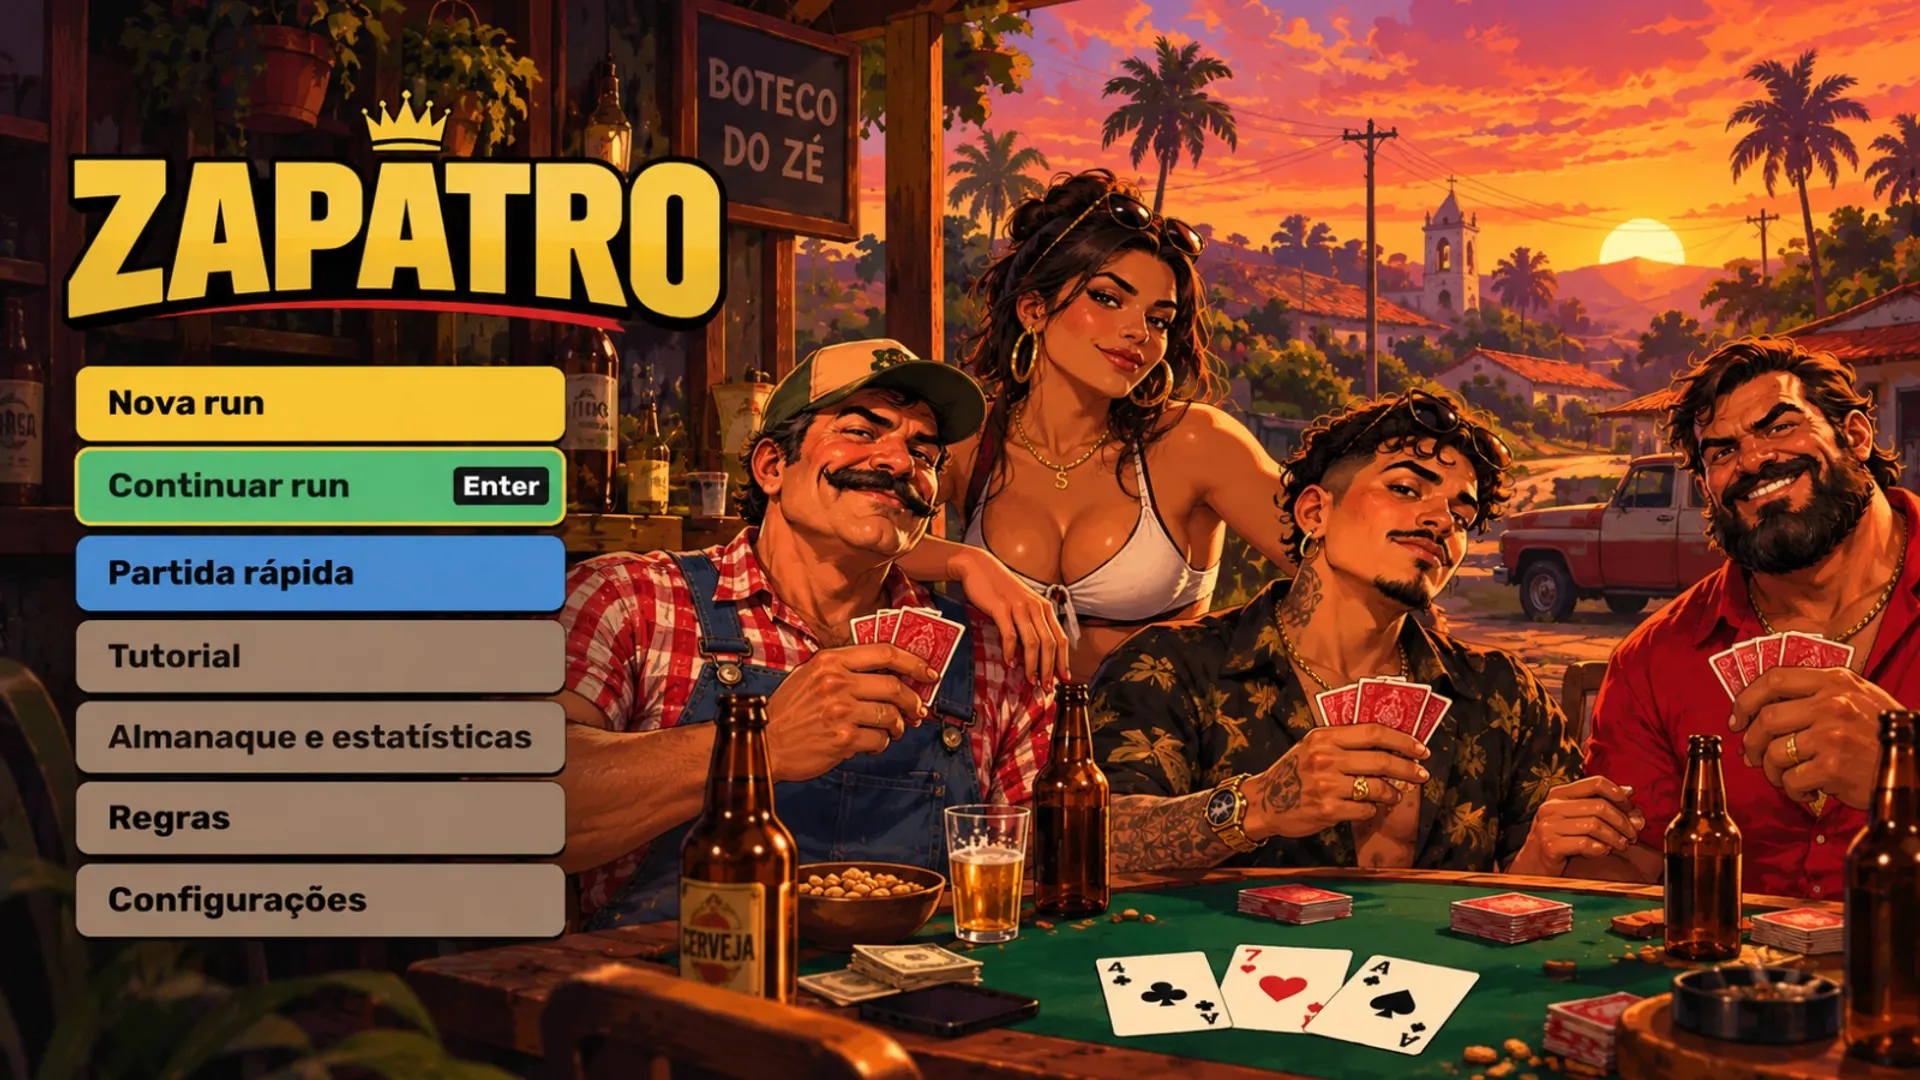
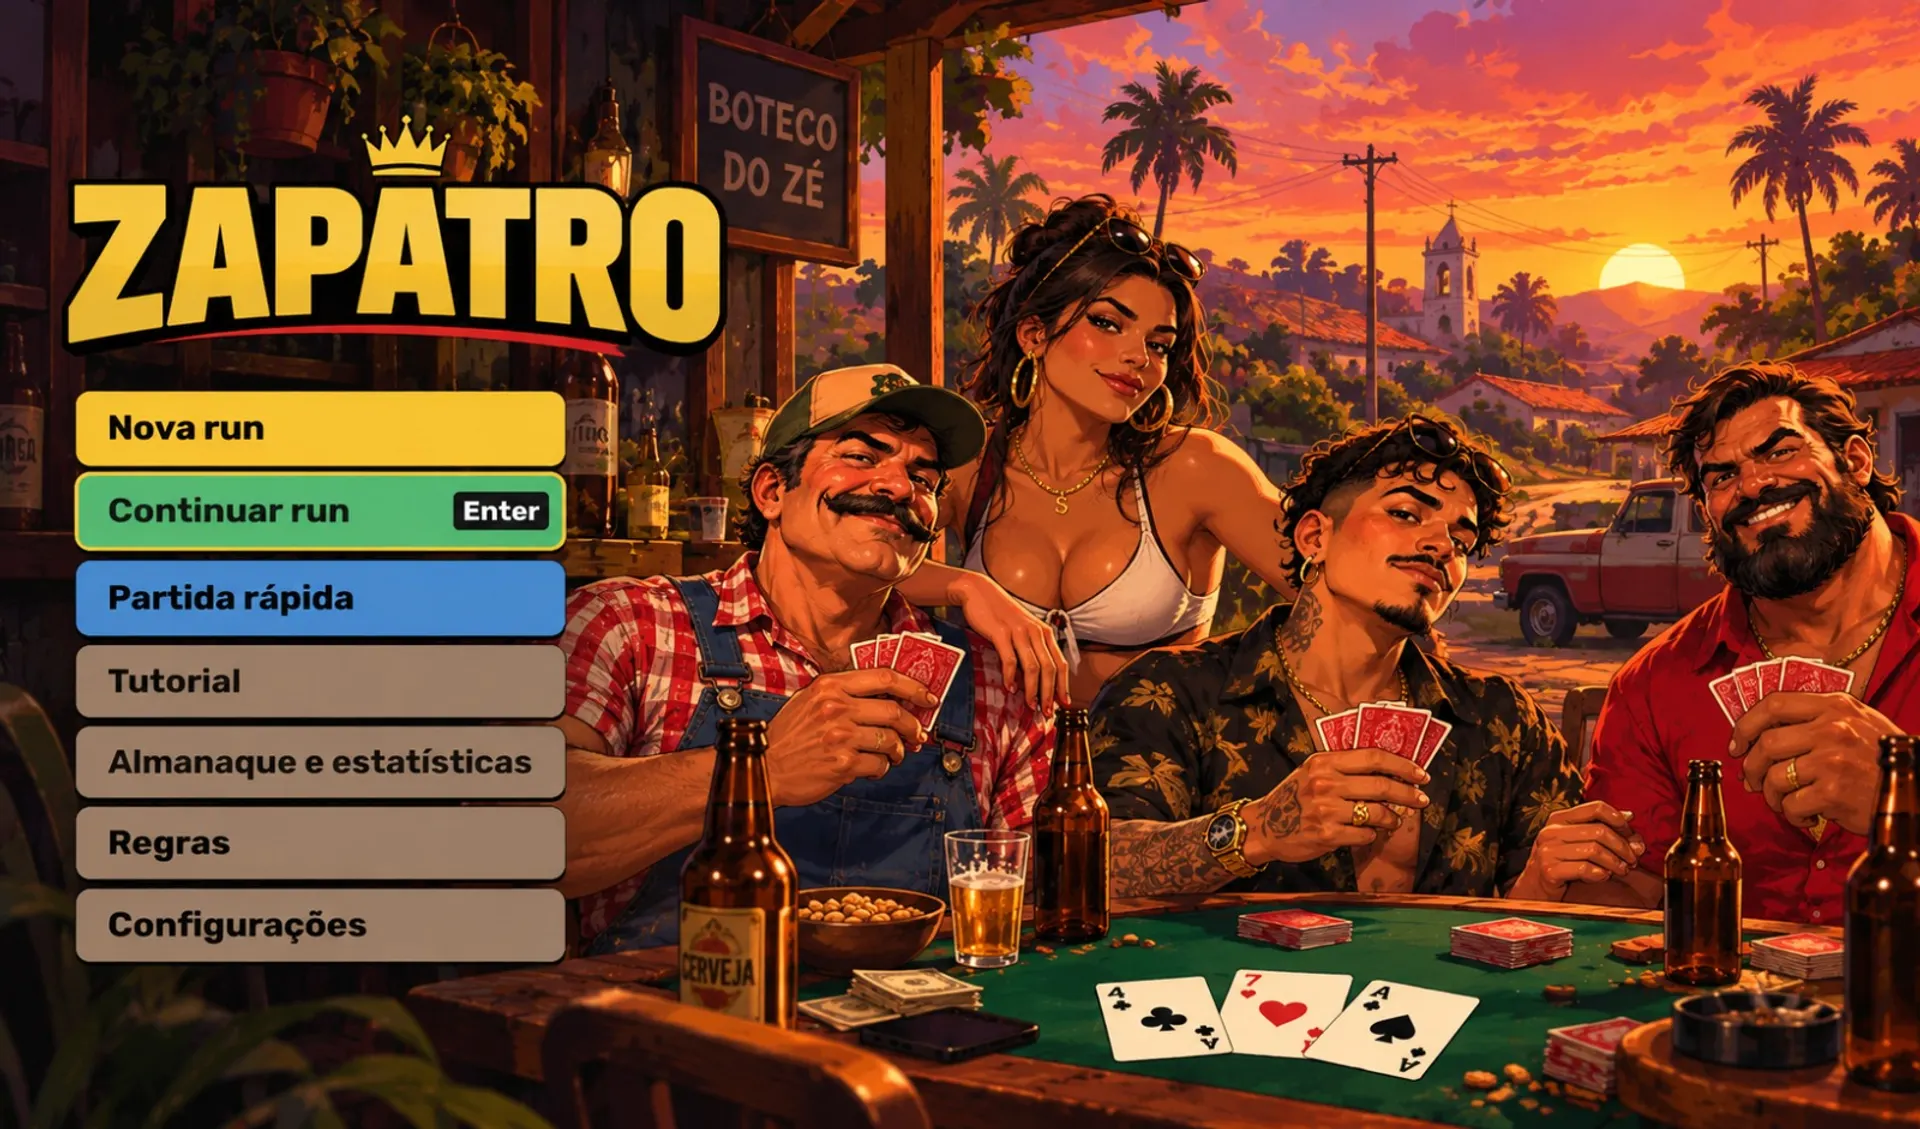
fix(ui): menu like the concept art: full painting, real buttons over the painted ones, no panel

diff --git a/src/view/menu-backdrop.ts b/src/view/menu-backdrop.ts
@@ -3,87 +3,125 @@ import { PALETTE } from '../config/palette';
 import { comfort } from './comfort';
 
 const KEYS = ['img.bg.menu-1', 'img.bg.menu-2', 'img.bg.menu-3'] as const;
-/** Time each painting stays, the crossfade between two, and the slow zoom (Ken Burns) of one. */
+/** Time each painting stays and the crossfade between two. */
 const HOLD_MS = 7000;
-const FADE_MS = 900;
-const ZOOM = 0.06;
-/** The paintings carry the logo and PT buttons in their left third: this share of the width is hidden. */
-const BAKED_UI = 0.31;
-/** The panel is at least as wide as the button column and the title (stage px). */
-export const MENU_PANEL_MIN = 272;
-const IMG_W = 1600;
-const IMG_H = 900;
+const FADE_MS = 500;
+/** The paintings are measured on this width (their source files are 1600 px wide). */
+const SRC_W = 1600;
+/** The painted logo ends at this source x in every painting: the view keeps at least this much. */
+const LOGO_RIGHT = 620;
+/** Most the painting may be enlarged (cropping its bottom) to fill the view's width. */
+const MAX_FILL = 1.06;
 
 /**
- * Rotating painted backdrop of the main menu: crossfade every HOLD_MS, left/right or the dots to
- * change by hand. A dark panel with a soft edge hides the logo and buttons painted into the art, so
- * the game's own (translated) ones sit on it. Absent images (failed load) leave the scene as is.
+ * Where the logo and the button column are painted into each painting (source px), measured on
+ * references/concept-art-gta/menu-1..3.jpeg. The game's own logo and buttons are laid over them,
+ * same place and size, so no painted text shows under them (whatever the language).
+ */
+export interface MenuGeo {
+	logo: { x: number; y: number; w: number; h: number };
+	col: { x: number; w: number; h: number; y0: number; step: number };
+}
+export const MENU_GEO: readonly MenuGeo[] = [
+	{ logo: { x: 48, y: 52, w: 564, h: 206 }, col: { x: 57, w: 415, h: 62, y0: 290, step: 71.7 } },
+	{ logo: { x: 50, y: 92, w: 560, h: 206 }, col: { x: 63, w: 407, h: 61, y0: 326, step: 69 } },
+	{ logo: { x: 48, y: 82, w: 546, h: 198 }, col: { x: 58, w: 403, h: 60, y0: 312, step: 68 } },
+];
+
+/** What the scene needs to place its UI: the painting's top-left in stage px and its scale. */
+export interface MenuFrame {
+	geo: MenuGeo;
+	/** Stage px per source px. */
+	k: number;
+	x: number;
+	y: number;
+	/** The visible stage rectangle. */
+	view: { x: number; y: number; width: number; height: number };
+}
+
+/**
+ * Rotating painted backdrop of the main menu (like the concept art: full-screen painting, logo
+ * and buttons over it). The painting fits the view's height and sits at the top left, so the
+ * painted UI is always on screen; wider views show the dimmed main backdrop to its right. It
+ * changes every HOLD_MS with a crossfade, or by hand with left/right and the dots. `onFrame` fires
+ * when the layout or the slide changes, so the scene can rebuild its logo and buttons on the new
+ * geometry. Missing images (failed load) leave the scene as is.
  */
 export class MenuBackdrop {
 	private readonly images: Phaser.GameObjects.Image[];
-	private readonly panel: Phaser.GameObjects.Graphics;
+	private readonly edge: Phaser.GameObjects.Graphics;
 	private readonly dots: Phaser.GameObjects.Arc[] = [];
 	private current = 0;
-	private cover = 1;
-	/** Current push-in of each painting (0..ZOOM), so a window resize keeps it. */
-	private readonly zoomed: number[] = [];
+	private view = { x: 0, y: 0, width: 640, height: 360 };
 	private timer: Phaser.Time.TimerEvent | null = null;
 
 	constructor(
 		private readonly scene: Phaser.Scene,
-		dotsAt: { x: number; y: number },
+		private readonly onFrame: (f: MenuFrame) => void,
 	) {
 		const keys = KEYS.filter((k) => scene.textures.exists(k));
-		this.images = keys.map((k) => scene.add.image(0, 0, k).setDepth(-20).setAlpha(0));
-		this.panel = scene.add.graphics().setDepth(-19);
-		if (!this.images.length) return;
+		this.images = keys.map((k) =>
+			scene.add.image(0, 0, k).setOrigin(0, 0).setDepth(-20).setAlpha(0),
+		);
+		this.edge = scene.add.graphics().setDepth(-19);
 		this.images[0]?.setAlpha(1);
-		this.zoom(0);
 		this.images.forEach((_, i) => {
 			const dot = scene.add
-				.circle(
-					dotsAt.x + (i - (this.images.length - 1) / 2) * 12,
-					dotsAt.y,
-					3.5,
-					PALETTE.textLight,
-				)
+				.circle(0, 0, 3.5, PALETTE.textLight)
+				.setStrokeStyle(1, PALETTE.night, 0.8)
 				.setDepth(5)
 				.setInteractive({ useHandCursor: true });
 			dot.on('pointerdown', () => this.go(i));
 			this.dots.push(dot);
 		});
 		this.paintDots();
-		this.restart();
+		if (this.images.length > 1) this.restart();
 		scene.events.once('shutdown', () => this.timer?.remove());
 	}
 
-	/** Fits the paintings to the visible stage rectangle (any window aspect ratio). */
+	/** Fits the painting to the visible stage rectangle and tells the scene where its UI goes. */
 	layout(view: { x: number; y: number; width: number; height: number }): void {
-		this.cover = Math.max(view.width / IMG_W, view.height / IMG_H);
-		const cx = view.x + view.width / 2;
-		const cy = view.y + view.height / 2;
-		for (const img of this.images) img.setPosition(cx, cy);
-		const left = cx - (IMG_W * this.cover) / 2;
-		// The buttons live at fixed stage positions, so the panel is at least as wide as their column.
-		const edge = Math.max(left + IMG_W * this.cover * BAKED_UI + 24, MENU_PANEL_MIN);
-		const g = this.panel.clear();
-		g.fillStyle(PALETTE.night, 1).fillRect(
-			view.x - 40,
-			view.y - 40,
-			edge - view.x + 40,
-			view.height + 80,
-		);
-		g.fillGradientStyle(
-			PALETTE.night,
-			PALETTE.night,
-			PALETTE.night,
-			PALETTE.night,
-			1,
-			0,
-			1,
-			0,
-		).fillRect(edge, view.y - 40, 56, view.height + 80);
-		for (let i = 0; i < this.images.length; i++) this.apply(i);
+		this.view = view;
+		const img = this.images[this.current];
+		if (!img) return;
+		const aspect = img.width / img.height;
+		// Fit the height, but never let the painted logo run off the right side.
+		const fitted = Math.min(view.height, view.width / ((LOGO_RIGHT / SRC_W) * aspect));
+		// Slightly narrower than the view (menu-2 is 1.70, the screen 1.78): fill the width and
+		// let the bottom crop a little instead of leaving a strip; the buttons end well above it.
+		const width = Math.min(Math.max(fitted * aspect, view.width), fitted * aspect * MAX_FILL);
+		const height = width / aspect;
+		const [x, y] = [view.x, view.y];
+		for (const i of this.images) i.setPosition(x, y).setDisplaySize(width, height);
+		// A view wider than the painting: its right edge fades into the main backdrop behind.
+		const g = this.edge.clear();
+		if (width < view.width - 1) {
+			const fade = Math.min(48, width * 0.08);
+			g.fillGradientStyle(
+				PALETTE.night,
+				PALETTE.night,
+				PALETTE.night,
+				PALETTE.night,
+				0,
+				0.7,
+				0,
+				0.7,
+			).fillRect(x + width - fade, y, fade, height);
+		}
+		const bottom = y + height;
+		const mid = x + width / 2;
+		for (const [i, d] of this.dots.entries())
+			d.setPosition(
+				mid + (i - (this.dots.length - 1) / 2) * 12,
+				Math.min(bottom, view.y + view.height) - 8,
+			);
+		this.onFrame({
+			geo: MENU_GEO[this.current] ?? (MENU_GEO[0] as MenuGeo),
+			k: width / SRC_W,
+			x,
+			y,
+			view,
+		});
 	}
 
 	step(by: number): void {
@@ -92,39 +130,19 @@ export class MenuBackdrop {
 
 	private go(next: number): void {
 		if (next === this.current || this.images.length < 2) return;
-		const [from, to] = [this.images[this.current], this.images[next]];
 		this.current = next;
 		this.paintDots();
-		if (!from || !to) return;
 		const fade = comfort.reduceFlashes ? 0 : FADE_MS;
-		this.scene.tweens.killTweensOf([from, to]);
-		this.scene.tweens.add({ targets: from, alpha: 0, duration: fade });
-		to.setAlpha(fade ? 0 : 1);
-		if (fade) this.scene.tweens.add({ targets: to, alpha: 1, duration: fade });
-		this.zoom(next);
+		// Every painting goes to its own target alpha: a half-faded one from a quick double press
+		// would otherwise stay over the others (double exposure).
+		for (const [i, img] of this.images.entries()) {
+			this.scene.tweens.killTweensOf(img);
+			const alpha = i === next ? 1 : 0;
+			if (fade) this.scene.tweens.add({ targets: img, alpha, duration: fade });
+			else img.setAlpha(alpha);
+		}
+		this.layout(this.view);
 		this.restart();
-	}
-
-	/** Slow push-in over the time the painting stays; off with "reduce flashes". */
-	private zoom(i: number): void {
-		this.zoomed[i] = 0;
-		this.apply(i);
-		if (comfort.reduceFlashes) return;
-		const t = { v: 0 };
-		this.scene.tweens.add({
-			targets: t,
-			v: ZOOM,
-			duration: HOLD_MS + FADE_MS * 2,
-			ease: 'Sine.easeInOut',
-			onUpdate: () => {
-				this.zoomed[i] = t.v;
-				this.apply(i);
-			},
-		});
-	}
-
-	private apply(i: number): void {
-		this.images[i]?.setScale(this.cover * (1 + (this.zoomed[i] ?? 0)));
 	}
 
 	private restart(): void {

diff --git a/src/scenes/MenuScene.ts b/src/scenes/MenuScene.ts
@@ -1,7 +1,5 @@
 import Phaser from 'phaser';
-import { titleTex } from '../art/title';
 import { PALETTE, toCss } from '../config/palette';
-import { BUTTON_H, GAP } from '../config/ui';
 import { sfx } from '../core/audio';
 import { getSave } from '../core/context';
 import { playAmbience, playMusic } from '../core/music';
@@ -15,13 +13,10 @@ import { onKey, onSceneEvent } from '../ui/keys';
 import { fadeTo, text } from '../ui/screen';
 import { uiPx } from '../ui/touch';
 import { buildLabel } from '../ui/version-footer';
-import { MenuBackdrop } from '../view/menu-backdrop';
+import { MenuBackdrop, type MenuFrame } from '../view/menu-backdrop';
 import { fitCamera } from '../view/stage';
 import { setBackdrop } from './BackdropScene';
 
-/** The button column (references/concept-art/flat/screen-menu.png): centre x, first row, step, size. */
-/** The button column: primary height, list gap (8 rows with Quit still clear the stage's base). */
-const COLUMN = { x: 157, y: 124, step: BUTTON_H.primary + GAP.list, w: 168, h: BUTTON_H.primary };
 /** Brown of the secondary rows (screen-menu.png). */
 const BROWN = 0x4a3b30;
 
@@ -99,53 +94,55 @@ export class MenuScene extends Phaser.Scene {
 		// A saved run: Enter resumes it.
 		this.focus = saved ? 1 : 0;
 
-		const backdrop = new MenuBackdrop(this, { x: 320, y: 326 });
+		// Logo and buttons are drawn over the ones painted into the backdrop, in the same place.
+		let layer: Phaser.GameObjects.GameObject[] = [];
+		let buttons: Button[] = [];
+		const build = (f: MenuFrame): void => {
+			for (const o of layer) o.destroy();
+			const { col } = f.geo;
+			const h = col.h * f.k;
+			buttons = rows.map((row, i) =>
+				new Button(
+					this,
+					t(row.label),
+					() => {
+						this.focus = i;
+						row.onSelect();
+					},
+					{
+						w: col.w * f.k,
+						h,
+						size: Math.max(7, Math.round(h * 0.48)),
+						color: row.color ?? BROWN,
+						left: Math.max(6, Math.round(h * 0.4)),
+						onHover: () => this.move(rows, i - this.focus, true),
+					},
+				)
+					.setPosition(
+						f.x + (col.x + col.w / 2) * f.k,
+						f.y + (col.y0 + i * col.step) * f.k + h / 2,
+					)
+					.setEnabled(!row.disabled),
+			);
+			layer = [...buttons];
+			version.setPosition(f.view.x + f.view.width - 6, f.view.y + f.view.height - 4);
+			this.redraw();
+		};
+		const backdrop = new MenuBackdrop(this, build);
 		onKey(this.input.keyboard, 'keydown-LEFT', () => backdrop.step(-1));
 		onKey(this.input.keyboard, 'keydown-RIGHT', () => backdrop.step(1));
-		// Title: sunset-gradient lettering that fits the dark panel (its edge is MENU_PANEL_MIN).
-		this.add
-			.image(
-				COLUMN.x - COLUMN.w / 2 - 6,
-				67,
-				titleTex(this, t('game.title').toUpperCase(), 196),
-			)
-			.setOrigin(0, 0.5);
-		// Nine rows (desktop with LAN and Quit) squeeze together to stay above the stage's base.
-		const tight = rows.length > 8;
-		const step = tight ? COLUMN.step - 2 : COLUMN.step;
-		const top = tight ? COLUMN.y - 6 : COLUMN.y;
-		const buttons = rows.map((row, i) =>
-			new Button(
-				this,
-				t(row.label),
-				() => {
-					this.focus = i;
-					row.onSelect();
-				},
-				{
-					w: COLUMN.w,
-					h: COLUMN.h,
-					size: 12,
-					color: row.color ?? BROWN,
-					left: true,
-					onHover: () => this.move(rows, i - this.focus, true),
-				},
-			)
-				.setPosition(COLUMN.x, top + i * step)
-				.setEnabled(!row.disabled),
-		);
 		this.redraw = () => {
 			for (const [i, b] of buttons.entries()) b.setFocus(i === this.focus);
 		};
-		this.add
-			.text(320, 345, buildLabel(__APP_VERSION__, import.meta.env.DEV, __BUILD_NAME__), {
+		const version = this.add
+			.text(0, 0, buildLabel(__APP_VERSION__, import.meta.env.DEV, __BUILD_NAME__), {
 				fontFamily: UI_FONT,
 				fontSize: `${uiPx(8)}px`,
 				fontStyle: '700',
 				color: toCss(PALETTE.textLight),
 				shadow: TEXT_SHADOW,
 			})
-			.setOrigin(0.5, 1);
+			.setOrigin(1, 1);
 		this.add
 			.text(
 				470,

diff --git a/scripts/portraits.ts b/scripts/portraits.ts
@@ -161,7 +161,9 @@ async function scenery(): Promise<void> {
 	await table();
 	for (const [name, file] of Object.entries(BACKGROUNDS))
 		await sharp(`${SRC_GTA}/${file}`)
-			.resize(1920, 1080, { fit: 'cover' })
+			// The menu paintings keep their own aspect (menu-2 is 1600×941): the UI painted into
+			// them is laid over in their pixels (src/view/menu-backdrop.ts).
+			.resize(1920, name.startsWith('menu-') ? undefined : 1080, { fit: 'cover' })
 			.webp({ quality: 78 })
 			.toFile(`${G}/bg/${name}.webp`);
 	for (const [name, file] of Object.entries(BACKS))

diff --git a/docs/visual.md b/docs/visual.md
@@ -16,8 +16,10 @@ A v3 troca a identidade de pixel/chapado por **arte pintada** (cores saturadas, 
 | Fundos | pintados, 1920×1080 WebP, camada `BackdropScene` embaixo de todas as telas (nunca cinza); o menu principal tem o próprio | `art-src/gta/*` → `public/assets/gfx/bg/{main,shop,partner,table,menu-1..3}.webp` |
 | Verso das cartas | pintado (palmeiras e mar), recorte central 3:4 de `card-1`; moldura e canto arredondado por código | `public/assets/gfx/back/{default,interior,blefe}.webp` (`card-1`, `card-2`, `card-3`); os baralhos `dinheiro` e `viciado` seguem o verso vetor tingido |
 | Mesa | feltro pintado (`bg/table.webp`, cantos arredondados em alfa) no retângulo `FELT`; Campeonatos 4 a 8 tingem o feltro de azul e vermelho | `board-game-1.jpeg` |
-| Menu principal | fundos `menu-1..3` com crossfade a cada 7 s e zoom lento (desligado com "reduzir flashes"); ←/→ e os pontinhos trocam; um painel escuro cobre o logo e os botões em PT pintados na imagem | `src/view/menu-backdrop.ts` |
+| Menu principal | pintura em tela cheia como no concept: `menu-1..3` (proporção própria, 1920 px de largura) com crossfade de 0,5 s a cada 7 s; ←/→ e os pontinhos trocam. A pintura ajusta a altura da tela e fica no canto superior esquerdo (até 6% de ampliação para preencher a largura; o logo pintado sempre cabe); a sobra à direita em telas mais largas é o fundo `main`, com a borda esfumada. O logo pintado fica à vista (é igual em todo idioma) e os botões reais do jogo cobrem os pintados, na mesma posição, largura, altura e passo (`MENU_GEO`, medido por imagem); o botão a mais (Multiplayer na rede local) estende a coluna para baixo | `src/view/menu-backdrop.ts`, `src/scenes/MenuScene.ts` |
 | Site | `background-2` sob um véu escuro, 3 larguras de WebP por breakpoint | `scripts/site-build.ts`, `site/app/globals.css` |
+
+**Resoluções-alvo** (palco lógico 640×360, zoom pela altura): desktop otimizado para 1920×1080 (47,91% dos jogadores) e 2560×1440 (27,04%), ambos 16:9; Android em paisagem, telas de 6,5\"+ (~20:9, de 2400×1080 a 3200×1440) em modo toque. Ultrawide (2559×999) e 16:10 (1280×800) só não podem quebrar. O menu é conferido em todos eles (`docs/media/gta-after/01-menu-*.png`).
 
 Pipeline: `bun scripts/portraits.ts` gera tudo acima a partir de `art-src/gta/` (originais versionados; `references/` é ignorado pelo git). Não há expressões pintadas: o retrato é um só por personagem (a chave `portrait.<id>.<expr>` ignora `<expr>`, como na v2). Fundos e cards entram pelo `BootScene` (`img.bg.*`, `img.card.*`, `img.back.*`); sem a imagem, a tela cai no fallback (fundo cinza `bgNeutral`, retrato desenhado, verso vetor).
 
